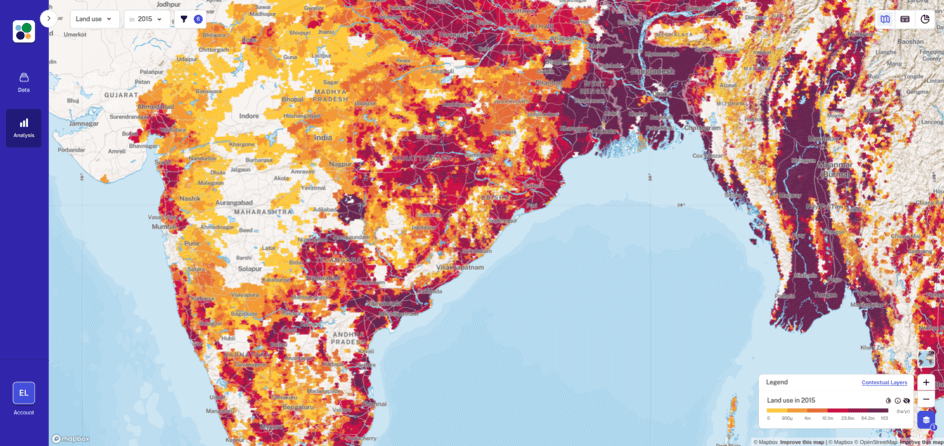
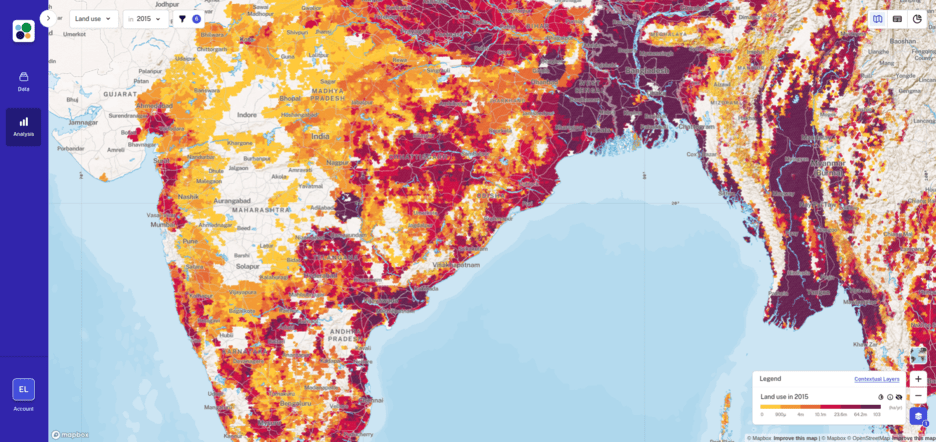
better resolution for images in homepage

Changed region(s): [[0.8056, 0.9118, 0.9605, 0.9412], [0.9295, 0.0294, 0.9605, 0.0588], [0.0, 0.8529, 0.031, 0.8824]]

diff --git a/marketing/src/containers/home/what/component.tsx b/marketing/src/containers/home/what/component.tsx
@@ -1,4 +1,5 @@
 import cx from 'classnames';
+import Image from 'next/image';
 
 import Wrapper from 'containers/wrapper';
 import FadeIn from 'components/fade';
@@ -11,11 +12,8 @@ const SLIDES = [
   {
     id: '1',
     content: (
-      <div className="w-full">
-        <div
-          className="w-full border-4 border-white pb-[45%] bg-cover"
-          style={{ backgroundImage: `url('/images/home/what/screen_1.png')` }}
-        />
+      <div className="w-full w-[944px] h-[446px] border-4 border-white overflow-hidden">
+        <Image src="/images/home/what/screen_1.png" width="936" height="442" alt="Traceability" />
       </div>
     ),
     description: (
@@ -30,11 +28,8 @@ const SLIDES = [
   {
     id: '2',
     content: (
-      <div className="w-full">
-        <div
-          className="w-full border-4 border-white pb-[45%] bg-cover"
-          style={{ backgroundImage: `url('/images/home/what/screen_2.png')` }}
-        />
+      <div className="w-full w-[944px] h-[446px] border-4 border-white overflow-hidden">
+        <Image src="/images/home/what/screen_2.png" width="936" height="442" alt="Confidence" />
       </div>
     ),
     description: (
@@ -49,11 +44,8 @@ const SLIDES = [
   {
     id: '3',
     content: (
-      <div className="w-full">
-        <div
-          className="w-full border-4 border-white pb-[45%] bg-cover"
-          style={{ backgroundImage: `url('/images/home/what/screen_3.png')` }}
-        />
+      <div className="w-full w-[944px] h-[446px] border-4 border-white overflow-hidden">
+        <Image src="/images/home/what/screen_2.png" width="936" height="442" alt="Strategize" />
       </div>
     ),
     description: (
@@ -154,14 +146,7 @@ const What: React.FC = () => {
               })}
             </div>
 
-            <Carousel
-              slide={slide}
-              slides={SLIDES}
-              onChange={(i) => {
-                setSlide(i);
-              }}
-              autoplay
-            />
+            <Carousel slide={slide} slides={SLIDES} onChange={setSlide} autoplay={false} />
           </FadeIn>
         </Wrapper>
       </div>
